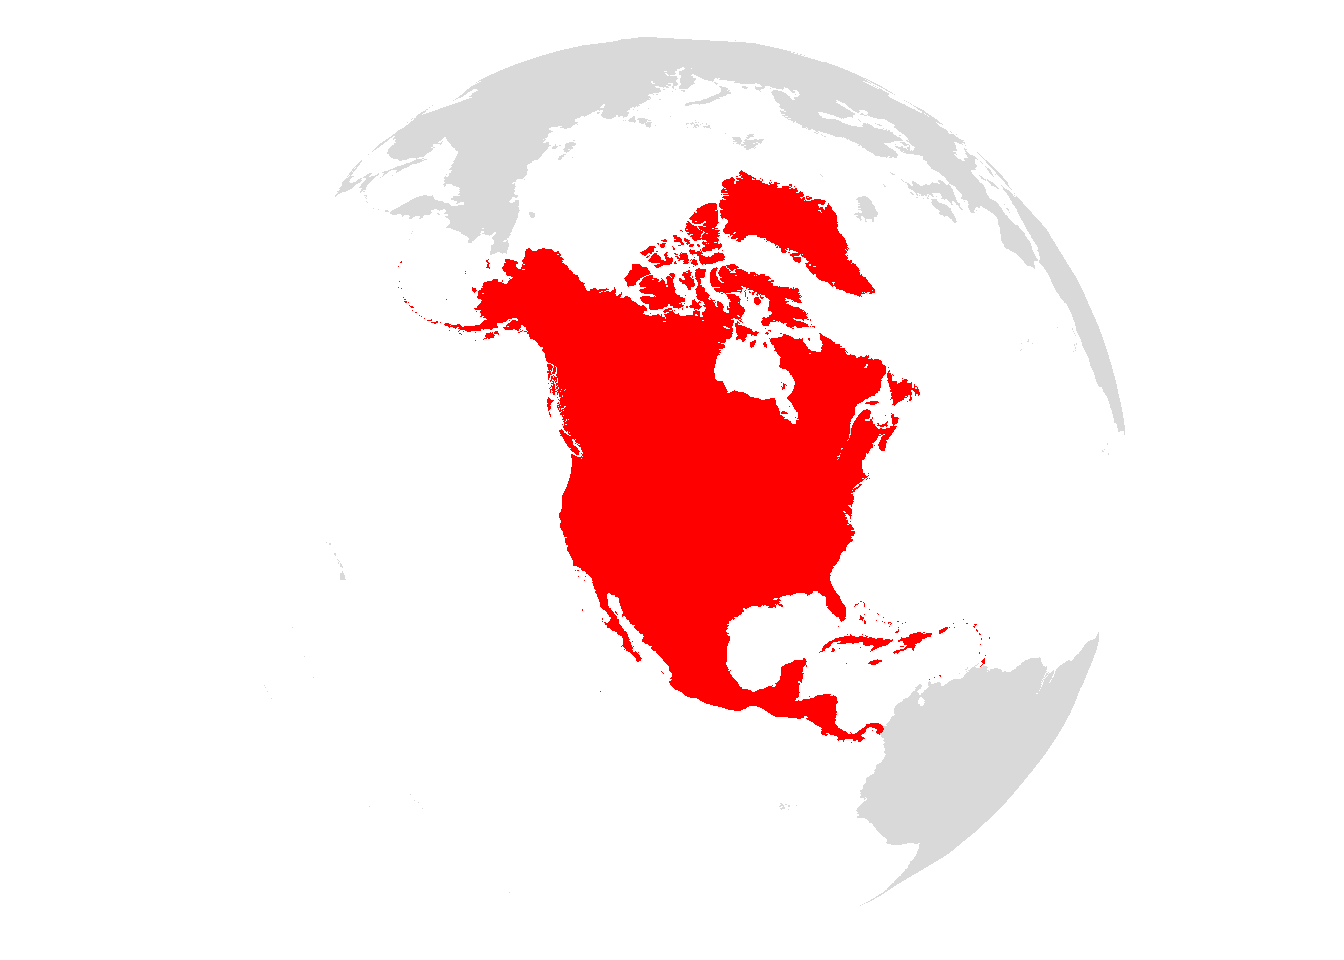
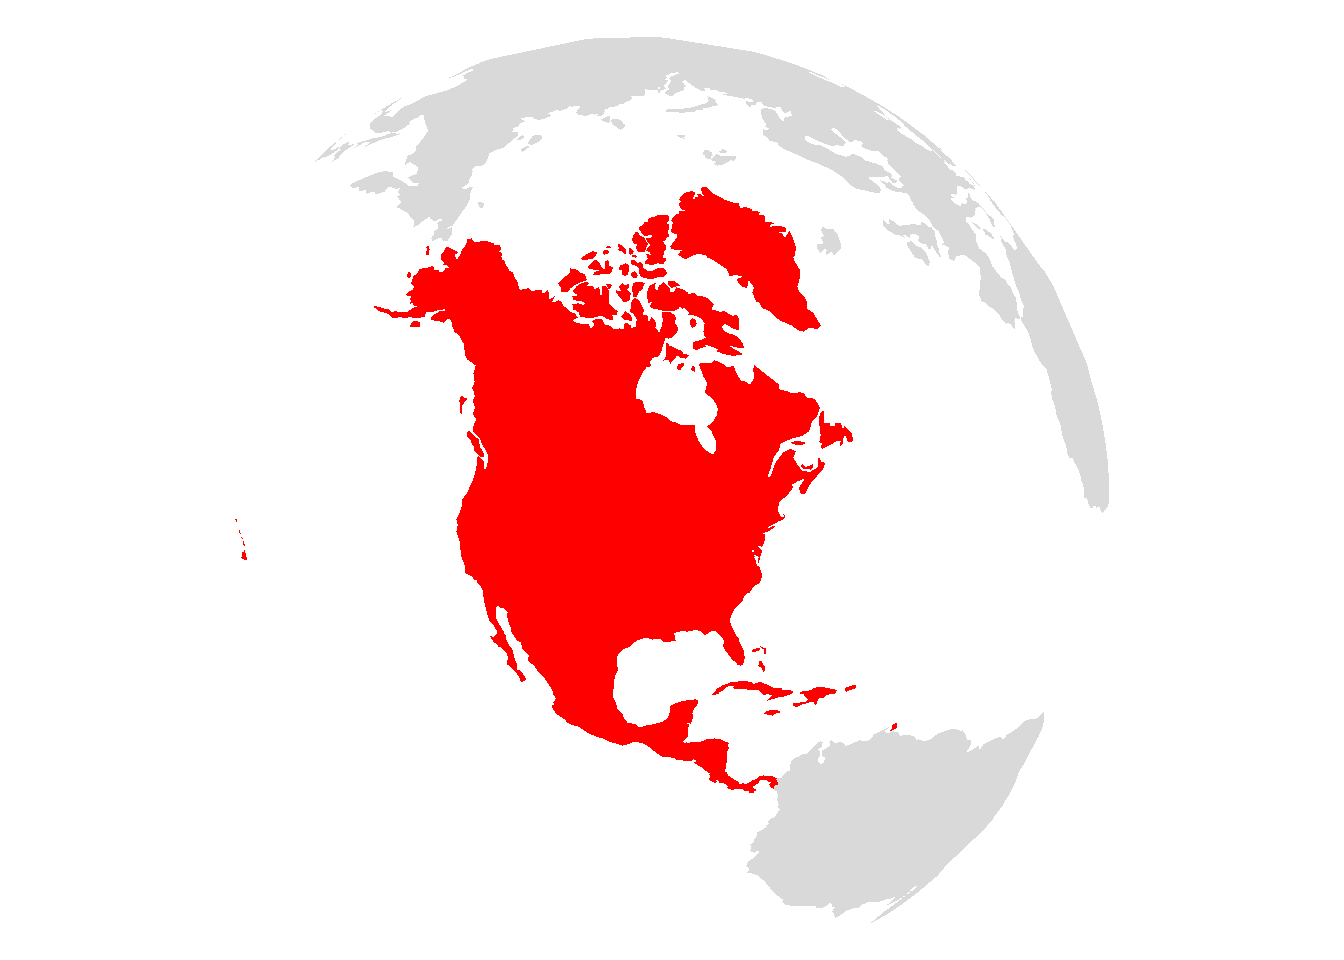
moved centre of  N Amer

diff --git a/docs/maps/10-north-america.html b/docs/maps/10-north-america.html
@@ -273,7 +273,7 @@ pre > code.sourceCode > span > a:first-child::before { text-decoration: underlin
 <p>Northern part of the American continent.</p>
 <section id="libraries" class="level2">
 <h2 class="anchored" data-anchor-id="libraries">Libraries</h2>
-<div class="cell" data-hash="10-north-america_cache/html/unnamed-chunk-1_a8975da2449f4998c975882119a284af">
+<div class="cell" data-hash="10-north-america_cache/html/unnamed-chunk-1_5b4517b68fed086bc8164ee4115c2383">
 <details>
 <summary>Code</summary>
 <div class="sourceCode cell-code" id="cb1"><pre class="sourceCode r code-with-copy"><code class="sourceCode r"><span id="cb1-1"><a href="#cb1-1" aria-hidden="true" tabindex="-1"></a><span class="fu">library</span>(sf)</span>
@@ -283,7 +283,7 @@ pre > code.sourceCode > span > a:first-child::before { text-decoration: underlin
 <span id="cb1-5"><a href="#cb1-5" aria-hidden="true" tabindex="-1"></a><span class="fu">library</span>(ggplot2)</span>
 <span id="cb1-6"><a href="#cb1-6" aria-hidden="true" tabindex="-1"></a></span>
 <span id="cb1-7"><a href="#cb1-7" aria-hidden="true" tabindex="-1"></a>focus <span class="ot">&lt;-</span> <span class="st">"North America"</span></span>
-<span id="cb1-8"><a href="#cb1-8" aria-hidden="true" tabindex="-1"></a>lon0 <span class="ot">&lt;-</span> <span class="sc">-</span><span class="dv">105</span></span>
+<span id="cb1-8"><a href="#cb1-8" aria-hidden="true" tabindex="-1"></a>lon0 <span class="ot">&lt;-</span> <span class="sc">-</span><span class="dv">95</span></span>
 <span id="cb1-9"><a href="#cb1-9" aria-hidden="true" tabindex="-1"></a>lat0 <span class="ot">&lt;-</span> <span class="dv">45</span></span>
 <span id="cb1-10"><a href="#cb1-10" aria-hidden="true" tabindex="-1"></a>proj <span class="ot">&lt;-</span> <span class="fu">str_glue</span>(<span class="st">"+proj=ortho lon_0={lon0} lat_0={lat0}"</span>)</span></code><button title="Copy to Clipboard" class="code-copy-button"><i class="bi"></i></button></pre></div>
 </details>
@@ -596,7 +596,7 @@ window.document.addEventListener("DOMContentLoaded", function (event) {
   </div>
 </nav>
 </div> <!-- /content -->
-<script>var lightboxQuarto = GLightbox({"selector":".lightbox","openEffect":"zoom","loop":true,"descPosition":"bottom","closeEffect":"zoom"});</script>
+<script>var lightboxQuarto = GLightbox({"openEffect":"zoom","selector":".lightbox","closeEffect":"zoom","loop":true,"descPosition":"bottom"});</script>
 
 
 

diff --git a/docs/maps/01-points.html b/docs/maps/01-points.html
@@ -637,7 +637,7 @@ window.document.addEventListener("DOMContentLoaded", function (event) {
   </div>
 </nav>
 </div> <!-- /content -->
-<script>var lightboxQuarto = GLightbox({"selector":".lightbox","closeEffect":"zoom","loop":true,"descPosition":"bottom","openEffect":"zoom"});</script>
+<script>var lightboxQuarto = GLightbox({"openEffect":"zoom","selector":".lightbox","closeEffect":"zoom","loop":true,"descPosition":"bottom"});</script>
 
 
 

diff --git a/docs/maps/02-lines.html b/docs/maps/02-lines.html
@@ -599,7 +599,7 @@ window.document.addEventListener("DOMContentLoaded", function (event) {
   </div>
 </nav>
 </div> <!-- /content -->
-<script>var lightboxQuarto = GLightbox({"selector":".lightbox","closeEffect":"zoom","loop":true,"openEffect":"zoom","descPosition":"bottom"});</script>
+<script>var lightboxQuarto = GLightbox({"descPosition":"bottom","selector":".lightbox","closeEffect":"zoom","openEffect":"zoom","loop":true});</script>
 
 
 

diff --git a/docs/maps/03-polygons.html b/docs/maps/03-polygons.html
@@ -600,7 +600,7 @@ window.document.addEventListener("DOMContentLoaded", function (event) {
   </div>
 </nav>
 </div> <!-- /content -->
-<script>var lightboxQuarto = GLightbox({"selector":".lightbox","descPosition":"bottom","loop":true,"openEffect":"zoom","closeEffect":"zoom"});</script>
+<script>var lightboxQuarto = GLightbox({"selector":".lightbox","loop":true,"descPosition":"bottom","closeEffect":"zoom","openEffect":"zoom"});</script>
 
 
 

diff --git a/docs/maps/04-bad-map.html b/docs/maps/04-bad-map.html
@@ -608,7 +608,7 @@ window.document.addEventListener("DOMContentLoaded", function (event) {
   </div>
 </nav>
 </div> <!-- /content -->
-<script>var lightboxQuarto = GLightbox({"closeEffect":"zoom","selector":".lightbox","loop":true,"descPosition":"bottom","openEffect":"zoom"});</script>
+<script>var lightboxQuarto = GLightbox({"descPosition":"bottom","closeEffect":"zoom","selector":".lightbox","openEffect":"zoom","loop":true});</script>
 
 
 

diff --git a/docs/maps/05-analog-map.html b/docs/maps/05-analog-map.html
@@ -594,7 +594,7 @@ window.document.addEventListener("DOMContentLoaded", function (event) {
   </div>
 </nav>
 </div> <!-- /content -->
-<script>var lightboxQuarto = GLightbox({"selector":".lightbox","closeEffect":"zoom","loop":true,"descPosition":"bottom","openEffect":"zoom"});</script>
+<script>var lightboxQuarto = GLightbox({"closeEffect":"zoom","descPosition":"bottom","selector":".lightbox","loop":true,"openEffect":"zoom"});</script>
 
 
 

diff --git a/docs/maps/06-asia.html b/docs/maps/06-asia.html
@@ -608,7 +608,7 @@ window.document.addEventListener("DOMContentLoaded", function (event) {
   </div>
 </nav>
 </div> <!-- /content -->
-<script>var lightboxQuarto = GLightbox({"loop":true,"descPosition":"bottom","closeEffect":"zoom","openEffect":"zoom","selector":".lightbox"});</script>
+<script>var lightboxQuarto = GLightbox({"openEffect":"zoom","closeEffect":"zoom","descPosition":"bottom","selector":".lightbox","loop":true});</script>
 
 
 

diff --git a/docs/maps/07-navigation.html b/docs/maps/07-navigation.html
@@ -655,7 +655,7 @@ window.document.addEventListener("DOMContentLoaded", function (event) {
   </div>
 </nav>
 </div> <!-- /content -->
-<script>var lightboxQuarto = GLightbox({"loop":true,"openEffect":"zoom","selector":".lightbox","descPosition":"bottom","closeEffect":"zoom"});</script>
+<script>var lightboxQuarto = GLightbox({"descPosition":"bottom","selector":".lightbox","closeEffect":"zoom","openEffect":"zoom","loop":true});</script>
 
 
 

diff --git a/docs/maps/08-africa.html b/docs/maps/08-africa.html
@@ -600,7 +600,7 @@ window.document.addEventListener("DOMContentLoaded", function (event) {
   </div>
 </nav>
 </div> <!-- /content -->
-<script>var lightboxQuarto = GLightbox({"descPosition":"bottom","openEffect":"zoom","loop":true,"selector":".lightbox","closeEffect":"zoom"});</script>
+<script>var lightboxQuarto = GLightbox({"closeEffect":"zoom","openEffect":"zoom","selector":".lightbox","descPosition":"bottom","loop":true});</script>
 
 
 

diff --git a/docs/maps/12-south-america.html b/docs/maps/12-south-america.html
@@ -600,7 +600,7 @@ window.document.addEventListener("DOMContentLoaded", function (event) {
   </div>
 </nav>
 </div> <!-- /content -->
-<script>var lightboxQuarto = GLightbox({"descPosition":"bottom","closeEffect":"zoom","selector":".lightbox","loop":true,"openEffect":"zoom"});</script>
+<script>var lightboxQuarto = GLightbox({"openEffect":"zoom","loop":true,"descPosition":"bottom","selector":".lightbox","closeEffect":"zoom"});</script>
 
 
 

diff --git a/docs/maps/14-europe.html b/docs/maps/14-europe.html
@@ -600,7 +600,7 @@ window.document.addEventListener("DOMContentLoaded", function (event) {
   </div>
 </nav>
 </div> <!-- /content -->
-<script>var lightboxQuarto = GLightbox({"selector":".lightbox","loop":true,"openEffect":"zoom","closeEffect":"zoom","descPosition":"bottom"});</script>
+<script>var lightboxQuarto = GLightbox({"selector":".lightbox","closeEffect":"zoom","descPosition":"bottom","openEffect":"zoom","loop":true});</script>
 
 
 

diff --git a/docs/maps/16-oceania.html b/docs/maps/16-oceania.html
@@ -600,7 +600,7 @@ window.document.addEventListener("DOMContentLoaded", function (event) {
   </div>
 </nav>
 </div> <!-- /content -->
-<script>var lightboxQuarto = GLightbox({"descPosition":"bottom","selector":".lightbox","closeEffect":"zoom","openEffect":"zoom","loop":true});</script>
+<script>var lightboxQuarto = GLightbox({"selector":".lightbox","loop":true,"openEffect":"zoom","closeEffect":"zoom","descPosition":"bottom"});</script>
 
 
 
